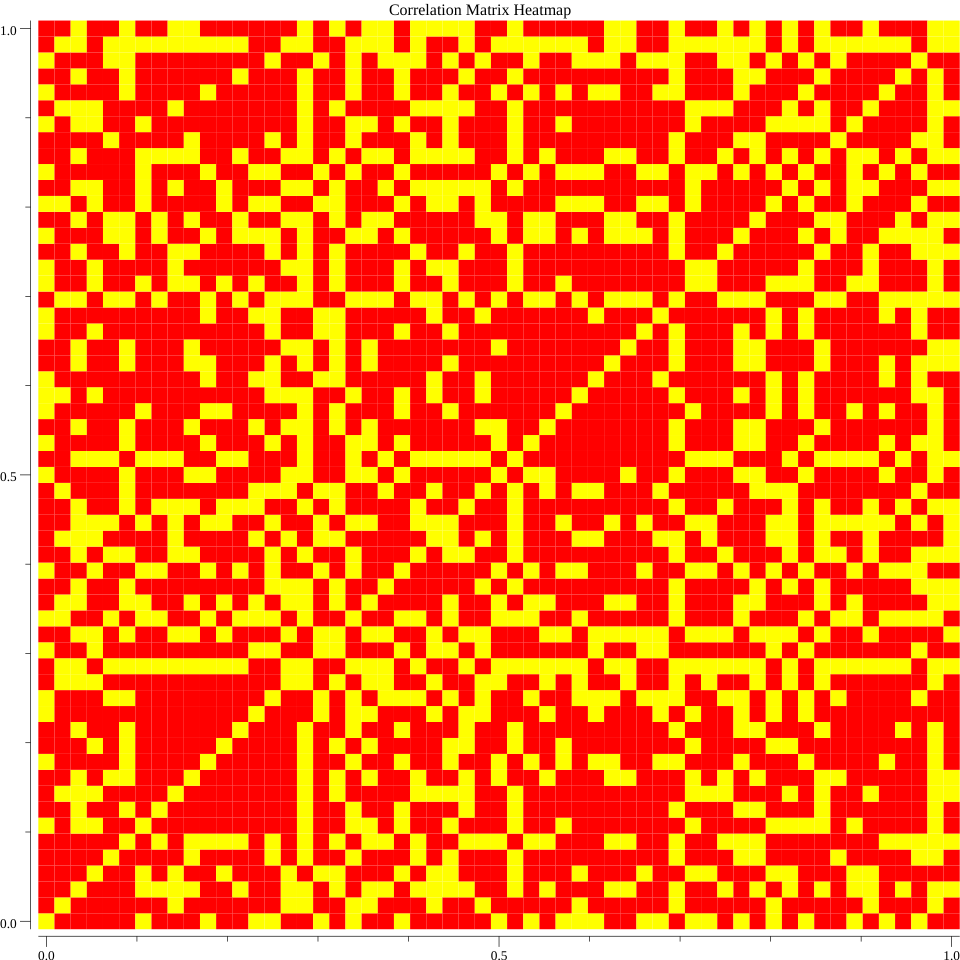
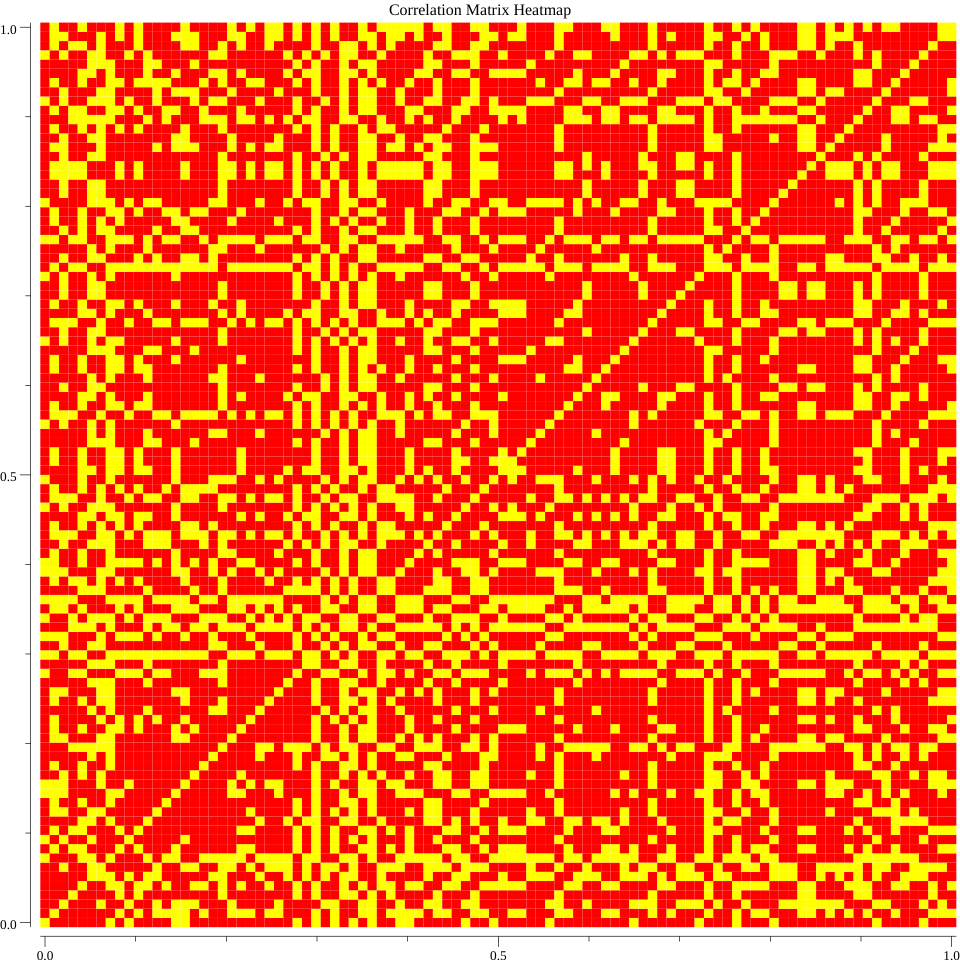
split train test function

diff --git a/main.go b/main.go
@@ -169,7 +169,9 @@ func main() {
 	fmt.Printf("Dataframe Columns: %v\n", df.Names())
 
 	// Iterate over the columns
-	for i, colName := range df.Names() {
+	columns := df.Names()
+	colsToDelete := []string{}
+	for i, colName := range columns {
 		if colName == "class" {
 			continue
 		}
@@ -207,9 +209,7 @@ func main() {
 
 			}
 
-			if err := df.RemoveSeries(colName); err != nil {
-				log.Fatal(err)
-			}
+			colsToDelete = append(colsToDelete, colName)
 
 			continue
 		}
@@ -224,7 +224,11 @@ func main() {
 			log.Fatal(err)
 		}
 
-		if err := df.RemoveSeries(colName); err != nil {
+		colsToDelete = append(colsToDelete, colName)
+	}
+
+	for _, col := range colsToDelete {
+		if err := df.RemoveSeries(col); err != nil {
 			log.Fatal(err)
 		}
 	}
@@ -265,12 +269,37 @@ func main() {
 	fmt.Println(df.Table(dataframe.TableOptions{R: &dataframe.Range{Start: &startRow, End: &endRow}}))
 
 	corrMatrix := createCorrelationMatrix(df)
-	fmt.Println(corrMatrix)
+	// fmt.Println(corrMatrix)
 	saveCorrelationMatrixHeatmap(corrMatrix, "correlation_heatmap.png")
 
-	classIndex := len(df.Names())-1 // Replace this with the index of the 'class' column in your data.
-	correlated := searchCorrelatedVariables(corrMatrix, df.Names(), classIndex)
-	fmt.Println("Correlated variables:", correlated)
+	/*
+		// Correlated variables TODO  (research using gonum/mat)
+		classIndex := len(df.Names())-1 // Replace this with the index of the 'class' column in your data.
+		correlated := searchCorrelatedVariables(corrMatrix, df.Names(), classIndex)
+		fmt.Println("Correlated variables:", correlated)
+	*/
+	colsToPreserve := map[string]bool{"class_normalized": true, "odor_f": true, "odor_n": true, "gill-spacing_c": true, "gill-spacing_w": true, "gill-size_b": true, "gill-size_n": true, "stalk-root_?": true, "stalk-surface-above-ring_k": true, "stalk-surface-above-ring_s": true, "stalk-surface-below-ring_k": true, "stalk-surface-below-ring_s": true, "spore-print-color_h": true, "spore-print-color_k": true, "spore-print-color_n": true, "spore-print-color_w": true, "population_v": true, "habitat_p": true}
+
+	columnsBeforeDelete := df.Names()
+	for _, column := range columnsBeforeDelete {
+		_, ok := colsToPreserve[column]
+
+		if !ok {
+			if err := df.RemoveSeries(column); err != nil {
+				log.Fatal(err)
+			}
+		}
+	}
+
+	fmt.Println(df.Table(dataframe.TableOptions{R: &dataframe.Range{Start: &startRow, End: &endRow}}))
+
+	xTrain, yTrain, xTest, yTest := split(df, 0.8, "class_normalized")
+
+	fmt.Println(xTrain.Table(dataframe.TableOptions{R: &dataframe.Range{Start: &startRow, End: &endRow}}))
+	fmt.Println(yTrain.Table(dataframe.TableOptions{R: &dataframe.Range{Start: &startRow, End: &endRow}}))
+	fmt.Println(xTest.Table(dataframe.TableOptions{R: &dataframe.Range{Start: &startRow, End: &endRow}}))
+	fmt.Println(yTest.Table(dataframe.TableOptions{R: &dataframe.Range{Start: &startRow, End: &endRow}}))
+
 }
 
 func isPossibleHabitat(habitat string) bool {
@@ -435,4 +464,51 @@ func searchCorrelatedVariables(corrMatrix [][]float64, names []string, classInde
 	}
 
 	return correlated
+}
+
+// split splits DataFrame into two parts: train and test, according to the provided ratio
+func split(df *dataframe.DataFrame, trainRatio float64, target string) (dataframe.DataFrame, dataframe.DataFrame, dataframe.DataFrame, dataframe.DataFrame) {
+	xTrainSeries := []dataframe.Series{}
+	yTrainSeries := []dataframe.Series{}
+	xTestSeries := []dataframe.Series{}
+	yTestSeries := []dataframe.Series{}
+
+	for i, column := range df.Names() {
+		series := df.Series[i]
+		trainSerie := dataframe.NewSeriesInt64(column, nil)
+		testSerie := dataframe.NewSeriesInt64(column, nil)
+
+		for i := 0; i < series.NRows(); i++ {
+			rowValue := series.Value(i).(int64)
+
+			rowRatio := float64((float64(i) + 1.0) / float64(series.NRows()))
+
+			if rowRatio < trainRatio {
+				trainSerie.Append(rowValue)
+			} else {
+				testSerie.Append(rowValue)
+			}
+
+		}
+
+		if column == target {
+
+			yTrainSeries = append(yTrainSeries, trainSerie)
+			yTestSeries = append(yTestSeries, testSerie)
+
+			continue
+
+		}
+
+		xTrainSeries = append(xTrainSeries, trainSerie)
+		xTestSeries = append(xTestSeries, testSerie)
+
+	}
+
+	xTrain := dataframe.NewDataFrame(xTestSeries...)
+	xTest := dataframe.NewDataFrame(xTestSeries...)
+	yTrain := dataframe.NewDataFrame(yTrainSeries...)
+	yTest := dataframe.NewDataFrame(yTestSeries...)
+
+	return *xTrain, *xTest, *yTrain, *yTest
 }
